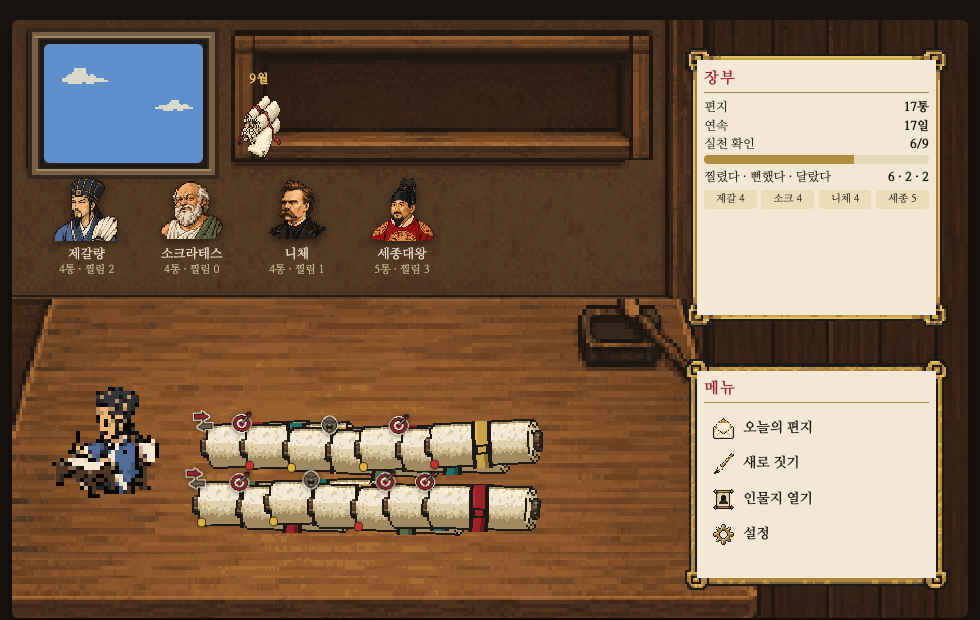
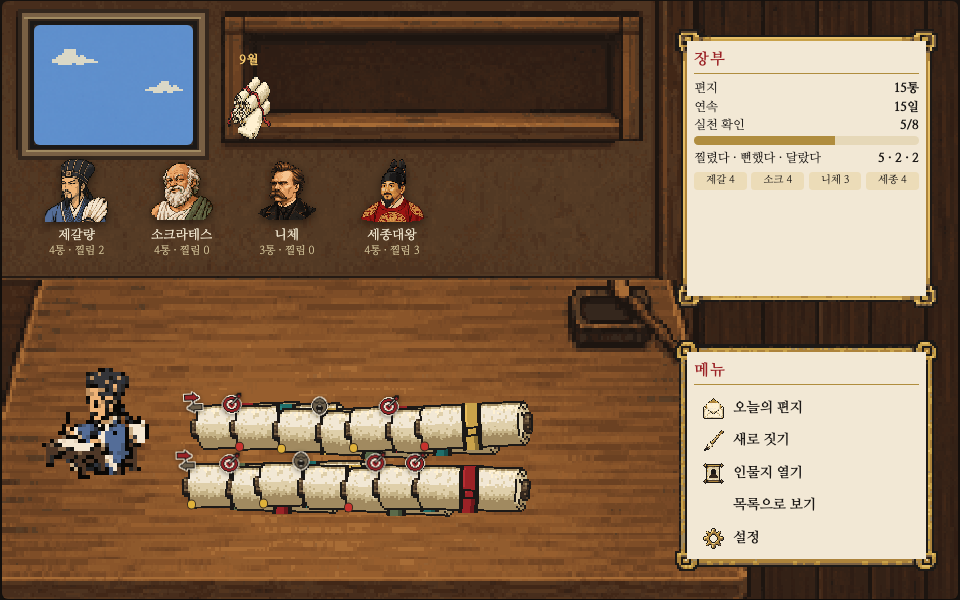
0.7.5: 앉은 현자 깜빡임 수정(writing 4프레임 순환), 목록을 메뉴 오버레이로, 장면 세로 가운데, 전용 스프라이트 훅·요청서 6

diff --git a/Resources/templates/archive.html b/Resources/templates/archive.html
@@ -7,8 +7,8 @@
 <link rel="stylesheet" href="../assets/styles/base.css">
 <style>
 /* ── 서재 장면: 960×600 비율, 글자 크기는 컨테이너 폭 기준(cqw) ── */
-body { display:block; background:#1a1512; padding:20px 12px 40px; }
-.study { max-width: 960px; margin: 0 auto; }
+body { display:flex; align-items:center; justify-content:center; min-height:100vh; box-sizing:border-box; background:#1a1512; padding:20px 12px; }
+.study { width:100%; max-width: 960px; margin: 0 auto; }
 .scene {
   position: relative; width: 100%; aspect-ratio: 960 / 600; container-type: inline-size;
   overflow: hidden; border-radius: 6px; box-shadow: 0 14px 40px rgba(0,0,0,.6);
@@ -73,12 +73,13 @@ body { display:block; background:#1a1512; padding:20px 12px 40px; }
 @keyframes pulse { 50% { transform: translateY(-4%); } }
 
 /* 앉은 현자 */
-.seat { left: 3.3%; top: 60%; width: 13.3%; height: 21.3%; cursor:pointer; }
-.seat .sprite { position:absolute; inset:0; background-repeat:no-repeat; background-position:0 0; image-rendering: pixelated; }
-.seat .sprite.idle { background-size: 200% 100%; animation: idle2 1.2s steps(2) infinite; }
-.seat .sprite.writing { background-size: 400% 100%; animation: writing4 .8s steps(4) infinite; }
-@keyframes idle2 { to { background-position: -200% 0; } }
-@keyframes writing4 { to { background-position: -400% 0; } }
+.seat { left: 3.3%; top: 60%; width: calc(100cqw * 128 / 960); height: calc(100cqw * 128 / 960); cursor:pointer; }
+.seat .sprite { position:absolute; inset:0; background-repeat:no-repeat; background-position:0 0; image-rendering: pixelated;
+  --frames: {{SEAT_FRAMES}}; background-size: calc(var(--frames) * 100%) 100%; }
+/* 글 쓰는 동작을 천천히 순환 — 몸은 고정, 붓만 움직임. 글 짓는 중이면 두 배 빠르게 */
+.seat .sprite.idle { animation: seat-loop 1.2s steps(var(--frames), end) infinite; }
+.seat .sprite.writing { animation: seat-loop .6s steps(var(--frames), end) infinite; }
+@keyframes seat-loop { to { background-position: calc(var(--frames) * -100%) 0; } }
 .seat .hint { position:absolute; left:100%; top:30%; margin-left:.8cqw; background:#f3ecd9; color:#1c1917; font-size:1.2cqw; padding:.35cqw .8cqw; border-radius:.5cqw; white-space:nowrap; opacity:0; transition:opacity .15s; pointer-events:none; }
 .seat:hover .hint { opacity:1; }
 
@@ -130,15 +131,24 @@ body { display:block; background:#1a1512; padding:20px 12px 40px; }
 .has-art .menu a.m-new .ic { background-image:url('../assets/ui/desk/menu-new.png'); }
 .has-art .menu a.m-profile .ic { background-image:url('../assets/ui/desk/menu-profile.png'); }
 .has-art .menu a.m-settings .ic { background-image:url('../assets/ui/desk/menu-settings.png'); }
+.has-art.has-list-icon .menu a.m-list .ic { background-image:url('../assets/ui/desk/menu-list.png'); }
+.menu a { padding: .5cqw .8cqw; }
+
+/* 목록 오버레이 (장면 위 종이 패널) */
+.list-overlay { inset:0; background: rgba(20,14,10,.55); z-index: 2000; display:flex; align-items:center; justify-content:center; }
+.list-overlay[hidden] { display:none; }
+.list-panel { width: 70%; height: 80%; background:#f3ecd9; border:.35cqw solid #b08d3e; border-radius:.8cqw; box-shadow:0 1cqw 2cqw rgba(0,0,0,.5); color:#1c1917; display:flex; flex-direction:column; overflow:hidden; }
+.list-head { display:flex; align-items:center; justify-content:space-between; padding:1cqw 1.4cqw .6cqw; border-bottom:.2cqw solid #b08d3e; }
+.list-head h3 { margin:0; font-size:1.6cqw; letter-spacing:.08em; color:#9b2226; }
+.list-close { font: inherit; font-size:1.4cqw; background:none; border:.15cqw solid #b08d3e; border-radius:.4cqw; width:2.6cqw; height:2.6cqw; cursor:pointer; color:#6b5e4a; }
+.list-close:hover { background:#e6d8b8; }
+.list-panel ul { list-style:none; margin:0; padding:.4cqw 1.4cqw 1cqw; overflow-y:auto; flex:1; }
+.list-panel li { display:flex; gap:1cqw; align-items:baseline; padding:.7cqw 0; border-bottom:.1cqw solid rgba(0,0,0,.08); font-size:1.35cqw; cursor:pointer; }
+.list-panel li:hover { background:rgba(176,141,62,.12); }
+.list-panel li .d { color:#6b5e4a; white-space:nowrap; } .list-panel li .s { flex:1; font-weight:700; word-break:keep-all; } .list-panel li .w { color:#6b5e4a; white-space:nowrap; font-size:1.15cqw; }
+.list-panel li .fb { color:#9b2226; font-size:1.1cqw; white-space:nowrap; }
 .menu .note { font-size:1.05cqw; color:#6b5e4a; margin-top:.6cqw; min-height:1.4cqw; }
 
-/* 아래 접힌 목록 */
-details.list { max-width:960px; margin:18px auto 0; color:#e9dfc7; font-size:14px; }
-details.list summary { cursor:pointer; color:#c9b990; }
-details.list ul { list-style:none; padding:0; margin:8px 0 0; }
-details.list li { display:flex; gap:12px; padding:6px 0; border-bottom:1px solid rgba(255,255,255,.08); }
-details.list a { color:#f1e7cf; text-decoration:none; } details.list a:hover { color:#f3c66b; }
-details.list .who { color:#c9b990; white-space:nowrap; } details.list .sub { flex:1; color:#d8ccae; }
 .empty-note { position:absolute; left:50%; top:50%; transform:translate(-50%,-50%); color:#f1e7cf; font-size:1.6cqw; text-align:center; opacity:.85; }
 </style>
 </head>
@@ -150,7 +160,7 @@ details.list .who { color:#c9b990; white-space:nowrap; } details.list .sub { fle
   <div class="pos lamp"><div class="art"></div></div>
   <div class="pos party" id="party"></div>
   <div class="pos seat" id="seat" title="오늘의 편지">
-    <div class="sprite {{SEAT_MODE}}" style="background-image:url('../assets/characters/{{SEAT_PERSONA}}/{{SEAT_SHEET}}')"></div>
+    <div class="sprite {{SEAT_MODE}}" style="background-image:url('{{SEAT_SHEET_URL}}')"></div>
     <div class="hint">{{SEAT_HINT}}</div>
   </div>
   <div class="pos pile" id="pile"></div>
@@ -170,12 +180,18 @@ details.list .who { color:#c9b990; white-space:nowrap; } details.list .sub { fle
     <a class="m-today" href="sagebar://today"><span class="ic"></span>오늘의 편지</a>
     <a class="m-new" href="#" id="m-new"><span class="ic"></span>새로 짓기</a>
     <a class="m-profile" href="sagebar://profile"><span class="ic"></span>인물지 열기</a>
+    <a class="m-list" href="#" id="m-list"><span class="ic"></span>목록으로 보기</a>
     <a class="m-settings" href="sagebar://settings"><span class="ic"></span>설정</a>
     <div class="note" id="m-note"></div>
   </div>
-</div>
 
-<details class="list"><summary>목록으로 보기 · 전체 <span id="list-count"></span>통</summary><ul id="list"></ul></details>
+  <div class="pos list-overlay" id="list-overlay" hidden>
+    <div class="list-panel">
+      <div class="list-head"><h3>지난 편지 목록 · <span id="list-count"></span>통</h3><button class="list-close" id="list-close" aria-label="닫기">✕</button></div>
+      <ul id="list"></ul>
+    </div>
+  </div>
+</div>
 </div>
 
 <script>
@@ -305,14 +321,22 @@ document.getElementById('st-moodbar').style.width = (STATS.moodTotal ? STATS.moo
 document.getElementById('st-fb').textContent = `${STATS.fb.sharp} · ${STATS.fb.dull} · ${STATS.fb.miss}`;
 document.getElementById('st-who').innerHTML = PERSONAS.map(p => `<span title="${p.name}">${p.name.slice(0, 2)} ${(STATS.perPersona[p.id] || { count: 0 }).count}</span>`).join('');
 
-// ── 목록 ──
+// ── 목록 오버레이 (메뉴 → 목록으로 보기) ──
 const list = document.getElementById('list');
+const overlay = document.getElementById('list-overlay');
 document.getElementById('list-count').textContent = DATA.length;
 DATA.slice().reverse().forEach(d => {
   const li = document.createElement('li');
-  li.innerHTML = `<a href="${d.date}.html">${d.date}</a><span class="sub">${d.subtitle || ''}</span><span class="who">${byId(d.persona).name} · ${byId(d.persona).letter}${d.feedback ? ' · ' + fbLabel(d.feedback) : ''}</span>`;
+  li.innerHTML = `<span class="d">${d.date}</span><span class="s">${d.subtitle || '(부제 없음)'}</span><span class="w">${byId(d.persona).name} · ${byId(d.persona).letter}</span>${d.feedback ? `<span class="fb">${fbLabel(d.feedback)}</span>` : ''}`;
+  li.addEventListener('click', () => { location.href = d.date + '.html'; });
   list.appendChild(li);
 });
+function openList() { overlay.hidden = false; }
+function closeList() { overlay.hidden = true; }
+document.getElementById('m-list').addEventListener('click', e => { e.preventDefault(); openList(); });
+document.getElementById('list-close').addEventListener('click', closeList);
+overlay.addEventListener('click', e => { if (e.target === overlay) closeList(); });
+document.addEventListener('keydown', e => { if (e.key === 'Escape') closeList(); });
 
 renderShelf(); renderPile();
 </script>

diff --git a/Sources/SageBar/Model/LetterStore.swift b/Sources/SageBar/Model/LetterStore.swift
@@ -249,6 +249,11 @@ enum LetterStore {
         }
         let hasArt = HTMLRenderer.hasUIFile("desk/desk-bg.png")
         let sp = seat.persona
+        // 앉은 현자: 서재 전용 스프라이트(ui/desk/sage-<id>.png, 6프레임)가 있으면 그것을, 없으면 편지용 writing.png(4프레임)
+        let hasSeatSprite = HTMLRenderer.hasUIFile("desk/sage-\(seat.rawValue).png")
+        let seatSheet = hasSeatSprite ? "../assets/ui/desk/sage-\(seat.rawValue).png" : "../assets/characters/\(seat.rawValue)/writing.png"
+        let seatFrames = hasSeatSprite ? "6" : "4"
+        let bodyClass = (hasArt ? "has-art" : "") + (HTMLRenderer.hasUIFile("desk/menu-list.png") ? " has-list-icon" : "")
         let hint = generating ? "\(sp.displayName)이(가) 글을 짓는 중" : (dates.contains(today) ? "오늘의 \(sp.letterName) 보기" : "\(sp.displayName)에게 오늘 글 받기")
         let html = tpl
             .replacingOccurrences(of: "{{DATA_JSON}}", with: json(data))
@@ -257,9 +262,10 @@ enum LetterStore {
             .replacingOccurrences(of: "{{TODAY}}", with: today)
             .replacingOccurrences(of: "{{HAS_TODAY}}", with: dates.contains(today) ? "true" : "false")
             .replacingOccurrences(of: "{{HAS_FB_ICON}}", with: HTMLRenderer.hasUIFile("fb-sharp.png") ? "true" : "false")
-            .replacingOccurrences(of: "{{ART_CLASS}}", with: hasArt ? "has-art" : "")
+            .replacingOccurrences(of: "{{ART_CLASS}}", with: bodyClass)
             .replacingOccurrences(of: "{{SEAT_PERSONA}}", with: seat.rawValue)
-            .replacingOccurrences(of: "{{SEAT_SHEET}}", with: generating ? "writing.png" : "idle.png")
+            .replacingOccurrences(of: "{{SEAT_SHEET_URL}}", with: seatSheet)
+            .replacingOccurrences(of: "{{SEAT_FRAMES}}", with: seatFrames)
             .replacingOccurrences(of: "{{SEAT_MODE}}", with: generating ? "writing" : "idle")
             .replacingOccurrences(of: "{{SEAT_HINT}}", with: HTMLEscape.escape(hint))
         try? html.write(to: Paths.indexPage, atomically: true, encoding: .utf8)

diff --git a/scripts/check-characters.py b/scripts/check-characters.py
@@ -58,6 +58,9 @@ UI_DESK_SPEC = {   # 「현자의 서재」 장면 (요청서 5)
     "ledger.png": (272, 288, 1, False), "menu-panel.png": (272, 240, 1, False),
     "menu-today.png": (64, 64, 1, False), "menu-new.png": (64, 64, 1, False),
     "menu-profile.png": (64, 64, 1, False), "menu-settings.png": (64, 64, 1, False),
+    "menu-list.png": (64, 64, 1, False),
+    "sage-zhuge.png": (768, 128, 6, False), "sage-socrates.png": (768, 128, 6, False),   # 서재 전용 앉은 현자 (요청서 6)
+    "sage-nietzsche.png": (768, 128, 6, False), "sage-sejong.png": (768, 128, 6, False),
 }
 UI_DIR = os.path.join(ROOT, "Resources", "ui")
 UI_SPEC = {   # 인물 공통 UI 아이콘 (Resources/ui/)

diff --git a/docs/CODEX-REQUEST-desk-sage.md b/docs/CODEX-REQUEST-desk-sage.md
@@ -1,0 +1,43 @@
+# 업무협조 요청서 6 — 서재 전용 「앉아서 글 쓰는 현자」 스프라이트 + 목록 아이콘
+
+> 받는 이: Astra — 디자인·시각 자산 담당
+> 보내는 이: Claude Code — PM·개발 담당
+> 요청일: 2026-09-22 / 대상 버전: SageBar 0.7.6
+> 기획서: `docs/DESIGN-archive-desk.md` / 앞선 회신: `docs/PM-REPLY-desk-3.md`
+
+## 1. 배경
+
+서재 장면의 앉은 현자는 지금 편지용 캐릭터(`characters/<id>/writing.png`, 4배 밀도)를 그대로 올려 쓰고 있습니다. 두 가지가 아쉽습니다.
+
+- 서재 자산이 2배 밀도로 통일되어 4배 캐릭터만 유독 굵게 보입니다.
+- 원래 `idle.png` 2프레임을 번갈아 보이던 방식은 두 프레임의 몸 위치가 달라 "깜빡임"으로 느껴졌습니다(임시로 `writing.png` 4프레임으로 바꿔 놓았습니다).
+
+서재 배경과 같은 시점·밀도로 그린 **전용 스프라이트**를 부탁합니다. 파일이 들어오면 앱이 자동으로 바꿔 씁니다.
+
+## 2. 파일 규격 — `Resources/ui/desk/`, PNG RGBA, 정확히 2배 nearest
+
+| 파일 | 원본 | **납품** | 내용 |
+|---|---|---|---|
+| `sage-zhuge.png` `sage-socrates.png` `sage-nietzsche.png` `sage-sejong.png` | 64×64 ×6 가로 | **768×128** | 책상 앞에 앉아 붓/펜을 놀리는 **6프레임 순환** |
+| `menu-list.png` | 16×16 | **64×64** | 메뉴 "목록으로 보기" 아이콘 — 두루마리 여러 개가 줄지어 선 모양 |
+
+### 앉은 현자 지시
+- **시점**: 배경 `desk-bg.png`와 같은 3/4 위에서 내려다보는 각도. 인물은 책상 왼쪽 자리(원본 좌표 x 8~40, y 95~140)에 놓이며, 화면에서는 128×128px로 보입니다.
+- **그리는 범위**: 인물 상반신·팔·붓(펜)만. **의자·책상·종이는 그리지 않습니다** — 배경 책상 위에 바로 얹히기 때문입니다. 발밑 그림자 정도는 좋습니다.
+- **움직임**: 몸·머리·어깨 위치는 6프레임 모두 **픽셀 단위로 고정**. 팔과 붓끝만 "글을 써 내려가는" 동작으로 움직이고, 마지막 프레임에서 첫 프레임으로 자연스럽게 이어져야 합니다. 3프레임쯤에서 고개를 1px 내리는 정도의 미세 변화는 좋으나, 프레임 간 큰 차이(깜빡임)는 피해 주십시오.
+- **인물별**: 제갈량 흰 깃털 부채를 다른 손에 든 채 붓 / 소크라테스 갈대펜과 어깨의 토가 / 니체 검은 소매와 펜 / 세종 붉은 소매와 붓. 팔레트는 1차 초상과 동일.
+- 향후 "글 짓는 중"일 때는 같은 스프라이트를 두 배 빠르게 돌립니다. 따로 만들 필요 없습니다.
+
+## 3. 확인
+```sh
+python3 scripts/check-characters.py     # [ui/desk] OK (sage-*.png 768×128 6프레임, menu-list.png 64×64 포함)
+```
+겹쳐 보기: 6프레임을 반투명으로 겹쳤을 때 팔·붓 외 영역이 흔들리지 않아야 합니다.
+
+## 4. 납품 확인 항목
+- [ ] `Resources/ui/desk/sage-{zhuge,socrates,nietzsche,sejong}.png`, `menu-list.png`
+- [ ] 검증 `[ui/desk] OK`
+- [ ] 6프레임 겹침에서 몸 고정
+- [ ] 폴더 밖 수정 없음, 커밋하지 않음
+
+감사합니다.

diff --git a/CHANGELOG.md b/CHANGELOG.md
@@ -1,5 +1,10 @@
 # Changelog
 
+## 0.7.5 — 2026-09-22
+
+- 서재의 앉은 현자가 두 그림을 번갈아 켜는 듯 깜빡이던 것을 고침 — 붓 놀리는 4프레임을 천천히 순환(몸 고정). 서재 전용 6프레임 스프라이트는 요청서 6으로 Astra에게 의뢰, 도착 시 자동 교체.
+- 장면 아래 있던 "목록으로 보기"를 메뉴 안으로 — 누르면 장면 위 종이 패널로 목록이 열림(Esc·바깥 클릭으로 닫힘). 장면은 창 세로 가운데에.
+
 ## 0.7.4 — 2026-09-22
 
 - 서재 나머지 자산 14개(하늘 4장·다발 2종·빈 종이·등불·장부/메뉴 틀·메뉴 아이콘 4개)를 2배 밀도로 교체 — 서재 19개 전부 2배 밀도로 통일.

diff --git a/docs/DESIGN-archive-desk.md b/docs/DESIGN-archive-desk.md
@@ -27,7 +27,7 @@
 │                                                        │ 인물지 │ │
 │                                                        │ 설정   │ │
 └──────────────────────────────────────────────────────────────────┘
-  아래: 검색·정렬이 가능한 간단 목록 (접힘, 접근성·빠른 찾기용)
+  (0.7.5) 목록은 메뉴 → "목록으로 보기" 오버레이로 이동. 장면만 한 화면.
 ```
 
 ### 요소별 정의
